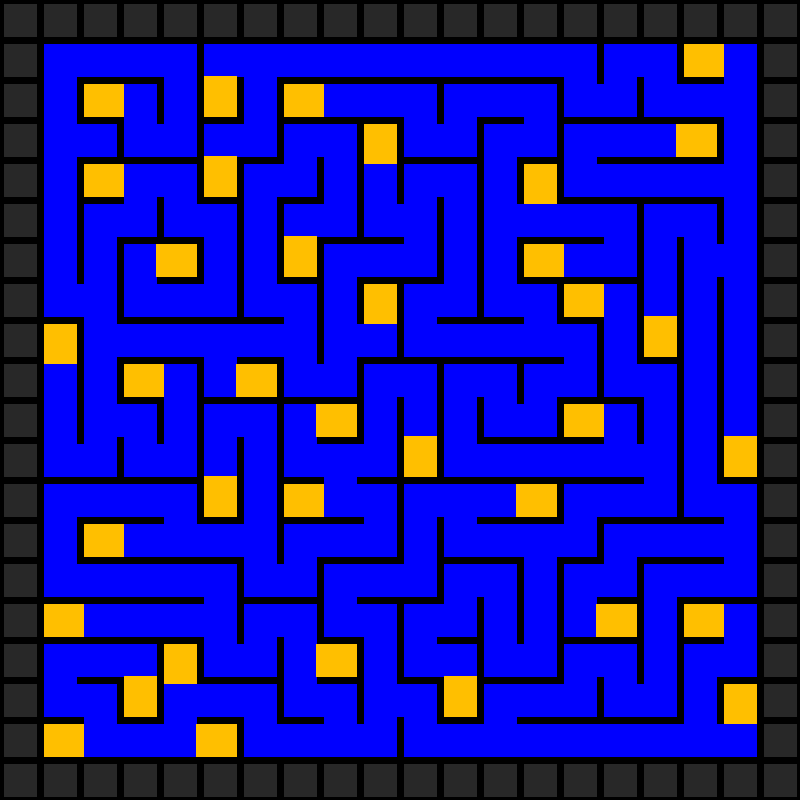
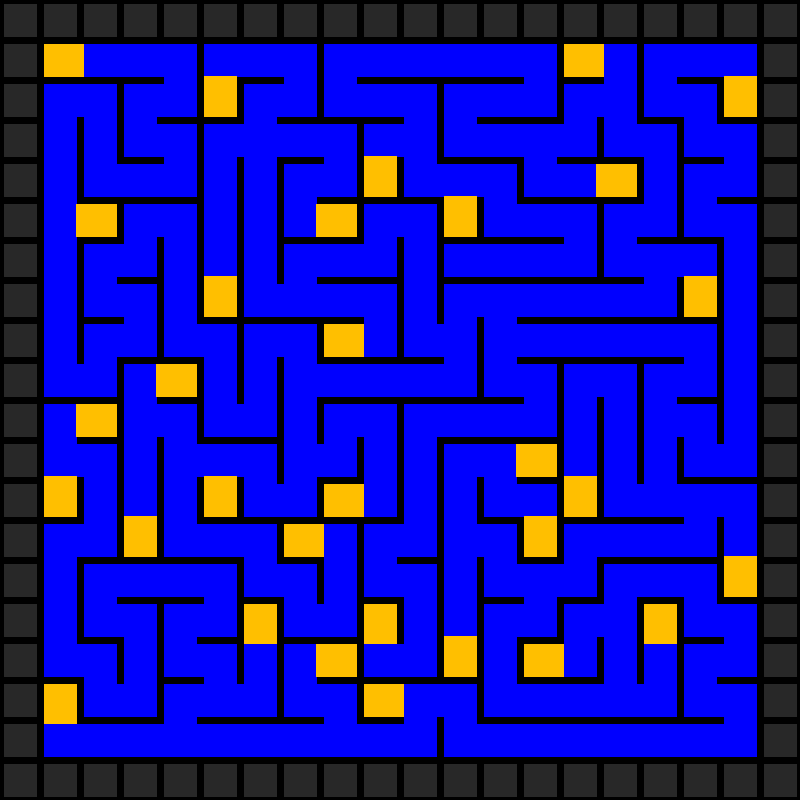
Completed DFS Maze Solver

diff --git a/Wall Follower.py b/Wall Follower.py
@@ -1,0 +1,142 @@
+from Randomized_Prims_algorithm import randomizedPrimsAlg, output_image_Prims
+from Kruskals_algorithm import Kruskals, output_image_Kruskals
+import random
+mazeWidth = 90
+mazeLength = 90
+defaultWall = 3
+
+
+def pickAWall(x, y, Puzzle):
+    Direction = ['up', 'down', 'left', 'right']
+    validPathChosen = False
+    checkUP = False
+    checkDN = False
+    checkLT = False
+    checkRT = False
+    dir = 0
+    noValid = False
+    while not validPathChosen:
+        step = random.choice(Direction)
+        if step == 'up':
+            # and findCycle(Puzzle, x, y+1) == False:
+            if (Puzzle[x][y+1][0] == 0):
+                y += 1
+                validPathChosen = True
+                dir = 1
+            else:
+                checkUP = True
+        elif step == 'down':
+            # and findCycle(Puzzle, x, y-1) == False:
+            if (Puzzle[x][y-1][0] == 0):
+                y -= 1
+                validPathChosen = True
+                dir = 2
+            else:
+                checkDN = True
+        elif step == 'left':
+            # and findCycle(Puzzle, x-1, y) == False:
+            if (Puzzle[x-1][y][0] == 0):
+                x -= 1
+                validPathChosen = True
+                dir = 3
+            else:
+                checkLT = True
+        elif step == 'right':
+            # and findCycle(Puzzle, x+1, y) == False:
+            if (Puzzle[x+1][y][0] == 0):
+                x += 1
+                validPathChosen = True
+                dir = 4
+            else:
+                checkRT = True
+
+        if checkRT and checkLT and checkDN and checkUP:
+            noValid = True
+            break
+
+    return x, y, dir, noValid
+
+
+Puzzle = randomizedPrimsAlg(mazeWidth, mazeLength, defaultWall)
+# Puzzle = Kruskals(mazeWidth, mazeLength, defaultWall)
+
+
+# Refactor Maze
+for i in range(mazeWidth):
+    for j in range(mazeLength):
+        if Puzzle[i][j][0] != 1:
+            Puzzle[i][j][0] = 0
+
+# Defining the starting position (for the user)
+Puzzle[1][1][0] = 2
+
+# Defining the ending position (for the user)
+Puzzle[mazeWidth-2][mazeLength-2][0] = 5
+
+# Pick a starting position
+position = [1, 1]
+
+# Mark the current cell as visited
+# Puzzle[1][1][0] = 3
+
+Stack = [position]
+mazeSolved = False
+while not mazeSolved:
+    # Check Valid next moves (i.e no wall between current cell and next cell)
+    # Look at surrounding Nodes (1 = up, 2 = down, 3 = left, 4 = right)
+    # Choose the next move in some non-random manner (i.e up, down, left, right)
+    dir = 0
+    move = [0, 0]
+    moveMade = False
+    for i in range(4):
+        dir += 1
+        if not moveMade:
+            if Puzzle[position[0]][position[1]][dir] < 0:
+                if dir == 1:
+                    if Puzzle[position[0]][position[1] - 1][0] in [0, 5]:
+                        move = [0, -1]
+                        moveMade = True
+                elif dir == 2:
+                    if Puzzle[position[0]][position[1] + 1][0] in [0, 5]:
+                        move = [0, 1]
+                        moveMade = True
+                elif dir == 3:
+                    if Puzzle[position[0] + 1][position[1]][0] in [0, 5]:
+                        move = [1, 0]
+                        moveMade = True
+                else:
+                    if Puzzle[position[0] - 1][position[1]][0] in [0, 5]:
+                        move = [-1, 0]
+                        moveMade = True
+
+    if not moveMade:
+        # Mark Deadend
+        position = Stack[len(Stack)-1][0]
+        Puzzle[position[0]][position[1]][0] = 4
+
+        # If dead end is reach pop the last value of the stack and set the last value of the Stack as the current position
+        Stack.pop(len(Stack)-1)
+        position = Stack[len(Stack)-1][0]
+        # print(position)
+    else:
+        position = [position[0] + move[0], position[1] + move[1]]
+
+        # End Condition
+        if Puzzle[position[0]][position[1]][0] == 5:
+            mazeSolved = True
+        else:
+            # Make the choosen cell the current cell and mark the current cell as visited
+            Puzzle[position[0]][position[1]][0] = 3
+            # Add current position to Stack
+            Stack.append([position])
+
+    # print(Stack)
+
+
+output_image_Prims('DFS.png',
+                   Puzzle, mazeWidth, mazeLength)
+
+for i in range(mazeLength):
+    for j in range(mazeWidth):
+        print(Puzzle[j][i][0], end=' ')
+    print()

diff --git a/Randomized_Prims_algorithm.py b/Randomized_Prims_algorithm.py
@@ -1,11 +1,11 @@
 import random
 
-mazeWidth = 5
-mazeLength = 5
-defaultWall = 3
+# mazeWidth = 15
+# mazeLength = 3
+# defaultWall = 3
 
 
-def output_image_Prims(filename, Puzzle):
+def output_image_Prims(filename, Puzzle, mazeWidth, mazeLength):
     from PIL import Image, ImageDraw
     cell_size = 40
 
@@ -45,6 +45,10 @@ def output_image_Prims(filename, Puzzle):
             # Set Ending Point Visual
             elif Puzzle[i][j][0] == 5:
                 fill = (255, 0, 0)
+
+            # Set Ending Point Visual
+            elif Puzzle[i][j][0] == 6:
+                fill = (0, 0, 255)
 
             # Empty cell
 
@@ -175,7 +179,16 @@ def randomizedPrimsAlg(mazeWidth, mazeLength, defaultWall):
         wallY = randomWall[1]
         x, y, dir, noValidPath = pickAWall(wallX, wallY, Puzzle)
         if dir != 0:
-            Puzzle[x][y][dir] = noWallValue
+            if dir == 1:
+                currentdir = 2
+            elif dir == 2:
+                currentdir = 1
+            elif dir == 3:
+                currentdir = 4
+            elif dir == 4:
+                currentdir = 3
+            Puzzle[x][y][dir] = noWallValue/4
+            Puzzle[wallX][wallY][currentdir] = noWallValue/4
             Puzzle[x][y][0] = 3
         else:
             for i in range(mazeWidth):
@@ -187,11 +200,11 @@ def randomizedPrimsAlg(mazeWidth, mazeLength, defaultWall):
     return Puzzle
 
 
-Puzzle = randomizedPrimsAlg(mazeWidth, mazeLength, defaultWall)
+# Puzzle = randomizedPrimsAlg(mazeWidth, mazeLength, defaultWall)
 
-Puzzle[1][1][0] = 2  # Defining the starting position (for the user)
+# Puzzle[1][1][0] = 2  # Defining the starting position (for the user)
 
-# Defining the ending position (for the user)
-Puzzle[mazeWidth-2][mazeLength-2][0] = 5
+# # Defining the ending position (for the user)
+# Puzzle[mazeWidth-2][mazeLength-2][0] = 5
 
-output_image_Prims('Randomized Prims algorithm20x20.png', Puzzle)
+# output_image_Prims('Randomized Prims algorithm.png', Puzzle)

diff --git a/Kruskals_algorithm.py b/Kruskals_algorithm.py
@@ -1,11 +1,11 @@
 import random
 
-mazeWidth = 50
-mazeLength = 50
-defaultWall = 4
+# mazeWidth = 50
+# mazeLength = 50
+# defaultWall = 4
 
 
-def output_image_Kruskals(filename, Puzzle, defaultWall):
+def output_image_Kruskals(filename, Puzzle, defaultWall, mazeWidth, mazeLength):
     from PIL import Image, ImageDraw
     cell_size = 40
 
@@ -43,7 +43,7 @@ def output_image_Kruskals(filename, Puzzle, defaultWall):
                 fill = (255, 191, 0)
 
             # Set Ending Point Visual
-            elif Puzzle[i][j][0] == 5:
+            elif Puzzle[i][j][0] < 0:
                 fill = (255, 0, 0)
 
             # Empty cell
@@ -329,9 +329,9 @@ def Kruskals(mazeWidth, mazeLength, defaultWall):
     return Puzzle
 
 
-Puzzle = Kruskals(mazeWidth, mazeLength, defaultWall)
+# Puzzle = Kruskals(mazeWidth, mazeLength, defaultWall)
 
-output_image_Kruskals('Kruskals Test.png', Puzzle, defaultWall)
+# output_image_Kruskals('Kruskals Test.png', Puzzle, defaultWall)
 
 
 # for i in range(mazeWidth*mazeLength):

diff --git a/Recursive Implementation.py b/Recursive Implementation.py
@@ -236,3 +236,8 @@ Puzzle = Recurse(currentX, currentY, Puzzle,
                  noWallValue, [[currentX, currentY]], mazeLength, mazeWidth)
 
 output_image('Recursive.png', Puzzle)
+
+for i in range(mazeLength):
+    for j in range(mazeWidth):
+        print(Puzzle[i][j][0], end=' ')
+    print()
